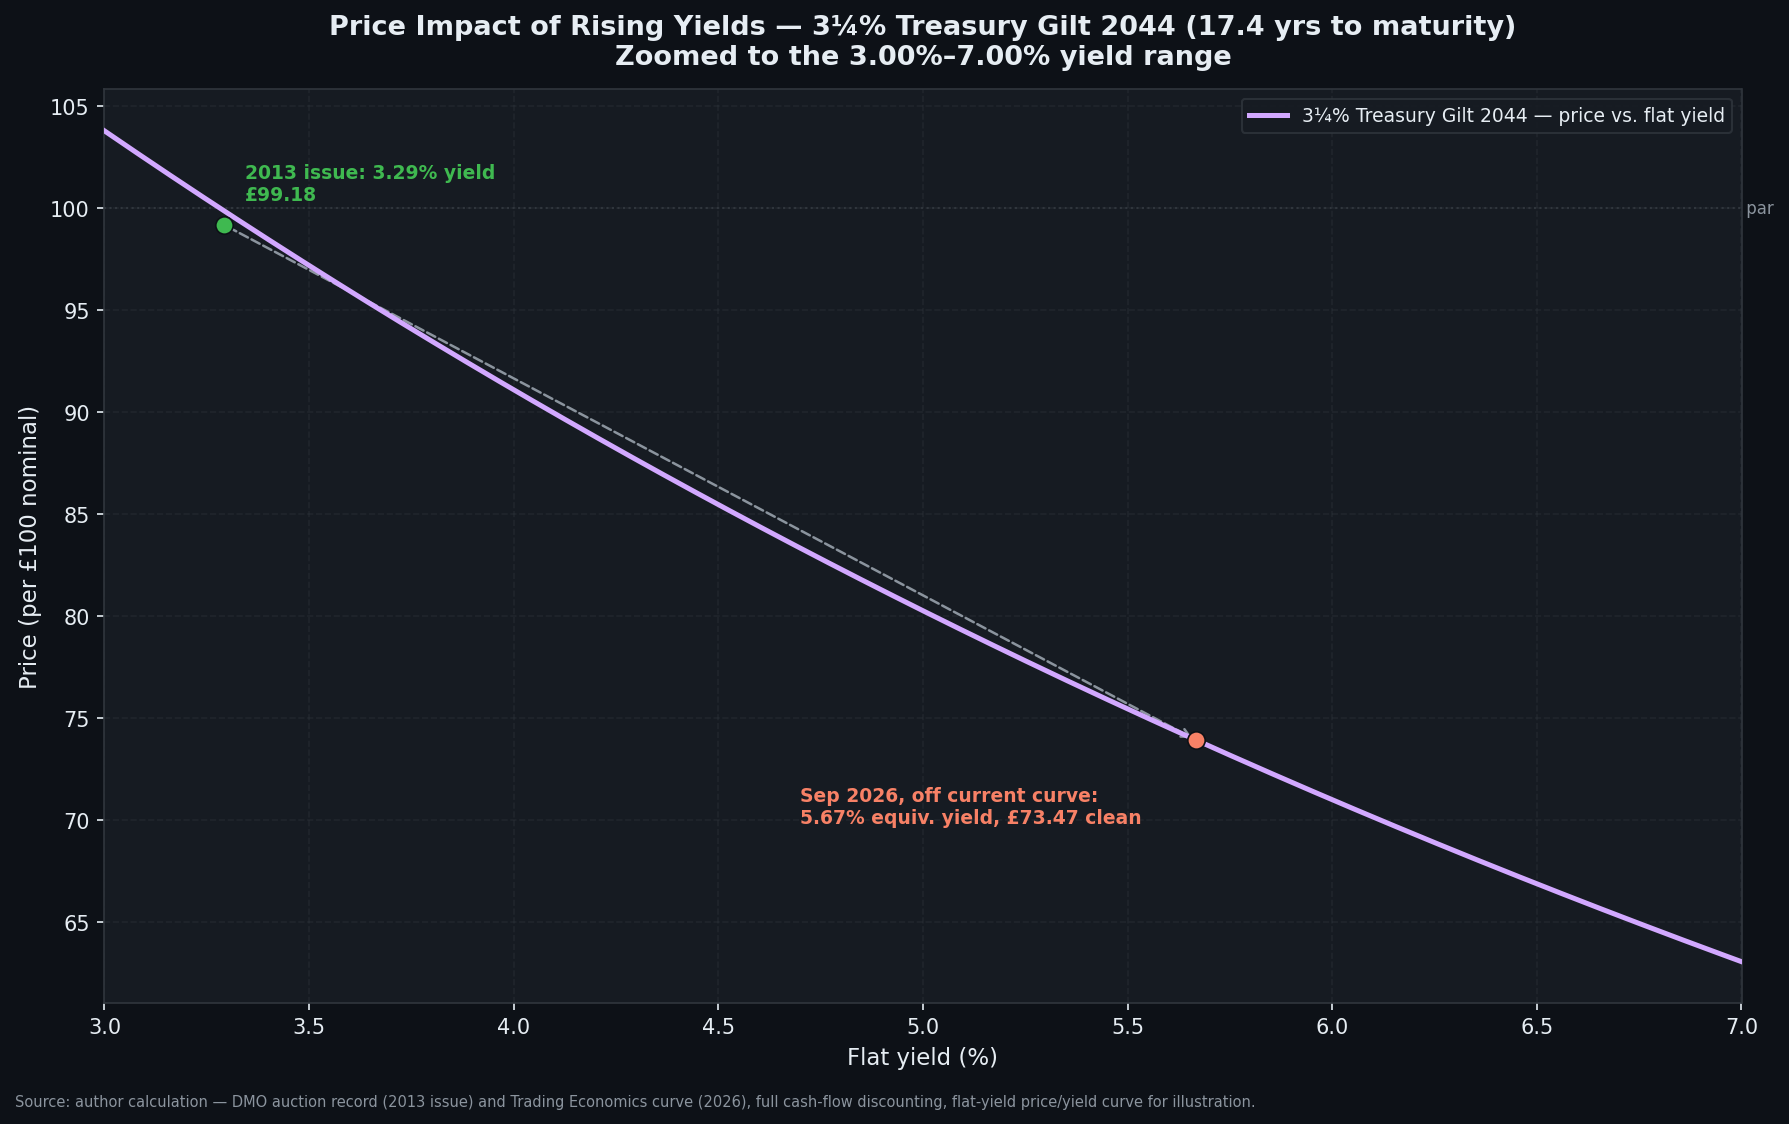
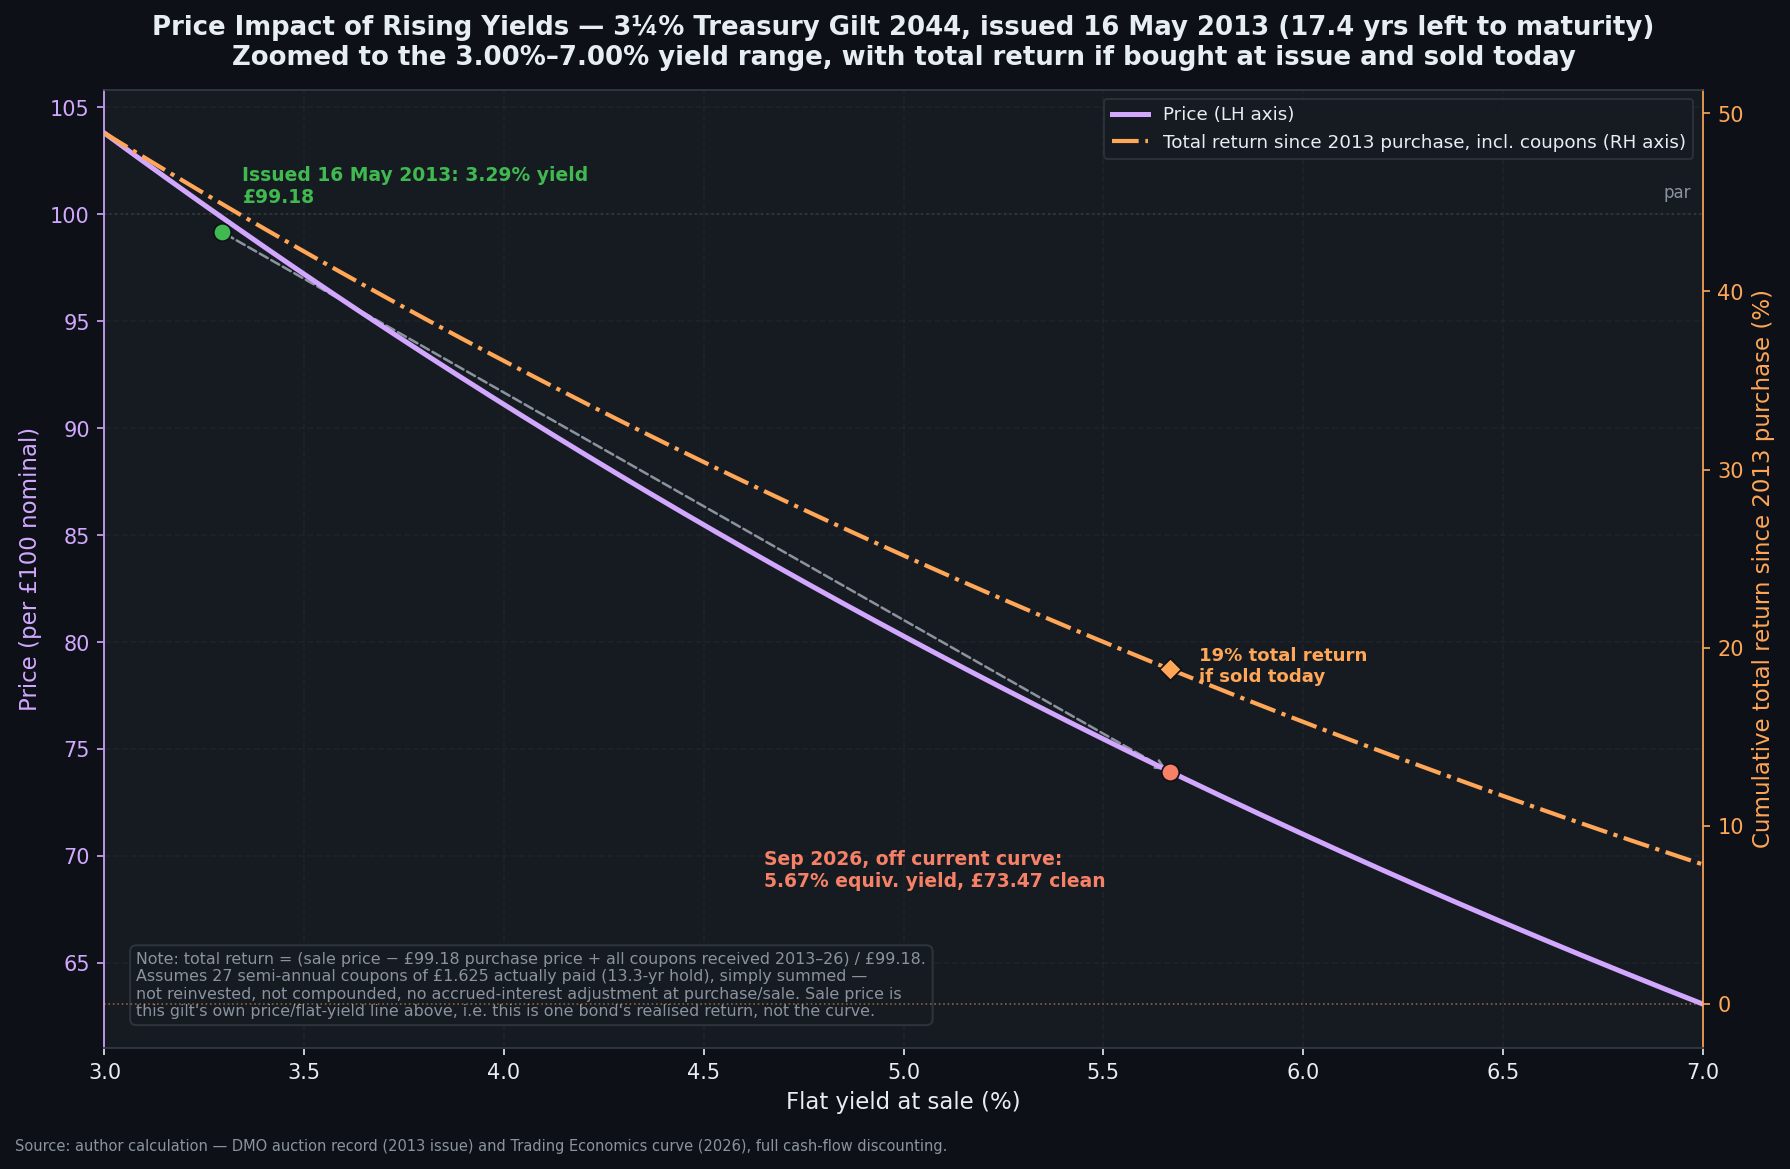
Add total-return (RH axis) and on-chart notes to gilt repricing charts; note issue date
- Chart 3 (price/yield zoom) now shows cumulative total return since the 2013 purchase, incl. all coupons received, on a right-hand axis, plus an issue-date-labelled annotation and a methodology note box
- Chart 1 (discount curve) gets on-chart methodology notes (proxy zero-curve caveat, discount-factor formula)
- Post text updated with the total-return figures (~19% cumulative / ~1.3% p.a. nominal if sold today, vs ~49% at 3.00% and ~8% at 7.00%) and an added caveat on the total-return simplifications

Claude-Session: https://claude.ai/code/session_01YTULTuWuszhoQVZSaLSyvE

diff --git a/static/data/economics/gilt_curve_2044_reprice.py b/static/data/economics/gilt_curve_2044_reprice.py
@@ -183,3 +183,139 @@ def make_price_zoom():
     print("saved price zoom")
 
 make_price_zoom()
+
+# ── Total return from a 2013 hold-to-today-then-sell, across the same yield range ──
+issue_date = date(2013, 5, 16)
+
+past_coupons = []
+d = date(2013, 7, 22)
+while d <= valuation:
+    past_coupons.append(d)
+    m = d.month + 6
+    yrr = d.year + (m-1)//12
+    m = (m-1) % 12 + 1
+    d = date(yrr, m, 22)
+
+total_coupons_received = coupon * len(past_coupons)
+holding_years = (valuation - issue_date).days / 365.0
+print(f"past coupons: {len(past_coupons)}, total coupon cash: {total_coupons_received:.3f}, holding years: {holding_years:.2f}")
+
+def total_return_pct(sale_price_dirty):
+    return (sale_price_dirty - issue_price + total_coupons_received) / issue_price * 100
+
+def make_price_zoom_v2():
+    ys = np.linspace(0.03, 0.07, 200)
+    prices = np.array([price_at_flat_yield(yy) for yy in ys])
+    tr = total_return_pct(prices)
+
+    fig, ax = plt.subplots(figsize=(12, 7.8))
+    ax2 = ax.twinx()
+
+    l1, = ax.plot(ys*100, prices, color=ACCENT4, linewidth=2.4, zorder=5,
+            label='Price (LH axis)')
+    l2, = ax2.plot(ys*100, tr, color=ACCENT5, linewidth=2.0, linestyle='-.', zorder=4,
+             label='Total return since 2013 purchase, incl. coupons (RH axis)')
+
+    ax.axhline(100, color=GRID_COL, linewidth=1, linestyle=':')
+    ax.text(6.97, 100.6, 'par', color=MUTED, fontsize=8, va='bottom', ha='right')
+
+    ax.scatter([issue_yield*100], [issue_price], color=ACCENT3, s=70, zorder=6, edgecolor=DARK_BG, linewidth=0.8)
+    ax.annotate(f'Issued 16 May 2013: {issue_yield*100:.2f}% yield\n£{issue_price:.2f}',
+                (issue_yield*100, issue_price), textcoords="offset points", xytext=(10, 14),
+                fontsize=9, color=ACCENT3, fontweight='bold')
+
+    ax.scatter([ytm_curve*100], [dirty_curve_price], color=ACCENT2, s=70, zorder=6, edgecolor=DARK_BG, linewidth=0.8)
+    ax.annotate(f'Sep 2026, off current curve:\n{ytm_curve*100:.2f}% equiv. yield, £{clean_curve_price:.2f} clean',
+                (ytm_curve*100, dirty_curve_price), textcoords="offset points", xytext=(-195, -55),
+                fontsize=9, color=ACCENT2, fontweight='bold')
+
+    ax.annotate('', xy=(ytm_curve*100, dirty_curve_price), xytext=(issue_yield*100, issue_price),
+                arrowprops=dict(arrowstyle='->', color=MUTED, lw=1.2, linestyle='--'))
+
+    cur_tr = total_return_pct(dirty_curve_price)
+    ax2.scatter([ytm_curve*100], [cur_tr], color=ACCENT5, s=55, zorder=6, edgecolor=DARK_BG, linewidth=0.8, marker='D')
+    ax2.annotate(f'{cur_tr:.0f}% total return\nif sold today', (ytm_curve*100, cur_tr),
+                 textcoords="offset points", xytext=(14, -6), fontsize=8.7, color=ACCENT5, fontweight='bold')
+
+    ax2.axhline(0, color=ACCENT5, linewidth=0.8, linestyle=':', alpha=0.5)
+
+    ax.set_xlim(3, 7)
+    ax.set_xlabel('Flat yield at sale (%)', fontsize=11)
+    ax.set_ylabel('Price (per £100 nominal)', fontsize=11, color=ACCENT4)
+    ax2.set_ylabel('Cumulative total return since 2013 purchase (%)', fontsize=11, color=ACCENT5)
+    ax.tick_params(axis='y', colors=ACCENT4)
+    ax2.tick_params(axis='y', colors=ACCENT5)
+    ax2.spines['right'].set_color(ACCENT5)
+    ax2.spines['left'].set_color(ACCENT4)
+    ax.set_title('Price Impact of Rising Yields — 3¼% Treasury Gilt 2044, issued 16 May 2013 (17.4 yrs left to maturity)\nZoomed to the 3.00%–7.00% yield range, with total return if bought at issue and sold today',
+                 fontsize=12.5, fontweight='bold', pad=12)
+
+    lines = [l1, l2]
+    ax.legend(lines, [ln.get_label() for ln in lines], loc='upper right', fontsize=8.8)
+    ax.grid(alpha=0.3)
+
+    note = ("Note: total return = (sale price − £99.18 purchase price + all coupons received 2013–26) / £99.18.\n"
+            f"Assumes {len(past_coupons)} semi-annual coupons of £1.625 actually paid ({holding_years:.1f}-yr hold), simply summed —\n"
+            "not reinvested, not compounded, no accrued-interest adjustment at purchase/sale. Sale price is\n"
+            "this gilt's own price/flat-yield line above, i.e. this is one bond's realised return, not the curve.")
+    ax.text(0.02, 0.03, note, transform=ax.transAxes, fontsize=7.6, color=MUTED,
+            va='bottom', ha='left', bbox=dict(boxstyle='round,pad=0.4', facecolor=DARK_AXES, edgecolor=GRID_COL, alpha=0.9))
+
+    add_source(fig, 'Source: author calculation — DMO auction record (2013 issue) and Trading Economics curve (2026), full cash-flow discounting.')
+    fig.tight_layout(rect=[0, 0.02, 1, 1])
+    fig.savefig(f'{OUT}/fiscal-outlook-2044-gilt-repricing.png', dpi=150, bbox_inches='tight', facecolor=DARK_BG)
+    plt.close(fig)
+    print("saved price zoom v2 with total return")
+    print(f"total return at current curve point: {cur_tr:.2f}%  annualized: {((1+cur_tr/100)**(1/holding_years)-1)*100:.2f}%")
+    print(f"total return at 3.00% sale: {total_return_pct(price_at_flat_yield(0.03)):.2f}%")
+    print(f"total return at 7.00% sale: {total_return_pct(price_at_flat_yield(0.07)):.2f}%")
+
+make_price_zoom_v2()
+
+# ── Add a note box to chart 1 as well ──
+def make_discount_curve_v2():
+    fine = np.linspace(1/12, 30, 400)
+    fig, (ax1, ax2) = plt.subplots(2, 1, figsize=(12, 9.3), sharex=True,
+                                    gridspec_kw={'height_ratios': [1.1, 1]})
+
+    ax1.plot(fine, y(fine)*100, color=ACCENT, linewidth=2.2, zorder=5)
+    ax1.scatter(mats, yld*100, color=ACCENT5, s=36, zorder=6, edgecolor=DARK_BG, linewidth=0.6,
+                label='Benchmark gilt yields')
+    for m, lbl, v in zip(mats, mat_labels, yld):
+        if lbl in ('1Y','5Y','10Y','30Y'):
+            ax1.annotate(f'{lbl}\n{v*100:.2f}%', (m, v*100), textcoords="offset points",
+                         xytext=(0, 10), ha='center', fontsize=8.5, color=TEXT_COL)
+    ax1.set_ylabel('Par yield (%)', fontsize=11)
+    ax1.set_title('UK Gilt Curve, 11 September 2026 — Par Yields and Implied Discount Factors',
+                   fontsize=13, fontweight='bold', pad=12)
+    ax1.legend(loc='lower right', fontsize=9)
+    ax1.grid(alpha=0.4)
+
+    note1 = ("Note: par yields interpolated (monotone PCHIP) between the 11 benchmark points\n"
+             "marked; used here as a proxy zero/discount curve (semi-annual compounding),\n"
+             "not a bootstrapped zero curve — a simplification, see post text.")
+    ax1.text(0.015, 0.97, note1, transform=ax1.transAxes, fontsize=7.6, color=MUTED,
+             va='top', ha='left', bbox=dict(boxstyle='round,pad=0.4', facecolor=DARK_AXES, edgecolor=GRID_COL, alpha=0.9))
+
+    ax2.plot(fine, df(fine), color=ACCENT3, linewidth=2.2)
+    ax2.fill_between(fine, df(fine), 0, color=ACCENT3, alpha=0.12)
+    for m, lbl in zip(mats, mat_labels):
+        if lbl in ('1Y','5Y','10Y','20Y','30Y'):
+            ax2.annotate(f'{df(m):.3f}', (m, df(m)), textcoords="offset points",
+                         xytext=(0, 8), ha='center', fontsize=8.5, color=TEXT_COL)
+    ax2.set_ylabel('Discount factor', fontsize=11)
+    ax2.set_xlabel('Maturity (years)', fontsize=11)
+    ax2.set_ylim(0, 1.02)
+    ax2.grid(alpha=0.4)
+
+    note2 = "Discount factor = price today of £1 received at that maturity = (1 + y/2)^(−2t)."
+    ax2.text(0.015, 0.06, note2, transform=ax2.transAxes, fontsize=7.6, color=MUTED,
+             va='bottom', ha='left', bbox=dict(boxstyle='round,pad=0.4', facecolor=DARK_AXES, edgecolor=GRID_COL, alpha=0.9))
+
+    add_source(fig, SOURCE_CURVE + ' — curve fitted by monotone (PCHIP) interpolation of benchmark par yields; treated as a proxy zero curve, a simplification flagged in the text.')
+    fig.tight_layout(rect=[0, 0.02, 1, 1])
+    fig.savefig(f'{OUT}/fiscal-outlook-discount-curve.png', dpi=150, bbox_inches='tight', facecolor=DARK_BG)
+    plt.close(fig)
+    print("saved discount curve v2 with notes")
+
+make_discount_curve_v2()

diff --git a/content/blog/economics/not-a-buffer-thats-a-wafer.md b/content/blog/economics/not-a-buffer-thats-a-wafer.md
@@ -55,13 +55,15 @@ A gilt sold at essentially par in 2013 is worth about £73.47 clean today — a 
 
 ## Zooming in: duration in one picture
 
-The chart below takes that same 3¼% 2044 gilt and zooms the yield axis to the 3.00%–7.00% range specifically, plotting price against a flat (parallel) yield shock rather than the full curve, so the duration effect is isolated and visible as one clean line.
+The chart below takes that same 3¼% Treasury Gilt 2044 (issued 16 May 2013) and zooms the yield axis to the 3.00%–7.00% range specifically, plotting price against a flat (parallel) yield shock rather than the full curve, so the duration effect is isolated and visible as one clean line. A second line, on the right-hand axis, adds the total return an actual buy-and-hold investor would have realised: buy at the 2013 auction, hold through to today, sell at whatever price the yield on the x-axis implies, and add back every coupon actually collected along the way.
 
-{{< figure src="/images/economics/fiscal-outlook-2044-gilt-repricing.png" caption="Price impact of rising yields on the 3¼% Treasury Gilt 2044, zoomed to the 3.00%–7.00% range" >}}
+{{< figure src="/images/economics/fiscal-outlook-2044-gilt-repricing.png" caption="Price impact of rising yields on the 3¼% Treasury Gilt 2044, zoomed to the 3.00%–7.00% range, with total return since the 2013 purchase on the right-hand axis" >}}
 
 The straight dashed line is a linear reference between the 2013 issue point and today's curve-implied point — the bond's actual price/yield line sits very slightly *above* that straight line across the whole range, which is convexity doing what convexity does (bond prices are a convex, not linear, function of yield — losses on the way up are a little smaller than a straight-line duration estimate implies, gains on the way down a little bigger). At this gilt's current yield, its Macaulay duration works out to about 12.5 years and modified duration to about 12.2. Rule of thumb: for every extra 100 basis points of yield, expect roughly a 12% price move in the opposite direction near current levels, tapering slightly as you move up the curve, which is exactly what the chart shows — steep, and very nearly straight, but not quite.
 
-Put in Lord Bridges' terms: the same market mechanism that produces "the highest 30-year borrowing cost in almost three decades" for new issuance is, cash-flow for cash-flow, the reason a 2013-vintage gilt is trading a quarter below where it was sold. It's one curve, doing both things at once.
+The total return line is the more human way of reading the same picture. Someone who bought this gilt at auction in May 2013 and sold it today, off the current curve, would have collected 27 semi-annual coupons of £1.625 along the way — £43.875 per £100 nominal, undiscounted — against a capital loss of about £25.71 (£99.18 down to £73.94 dirty). Net that out and the cumulative total return over 13.3 years is only about **19%**, which annualises to roughly **1.3% a year** — nominal, well before inflation, on a bond with a 3¼% coupon. That's the whole story of this post in one number: the coupon income was real, but the price decline nearly wiped it out, purely because yields backed up. Sell instead at the 3.00% end of the chart's range and total return jumps to about 49% (an investor who'd been lucky enough to sell before yields rose); sell at the 7.00% end and it falls to about 8%. Same bond, same coupons received, wildly different outcome depending entirely on where the curve happens to sit on the day you sell — which is duration risk stated as plainly as it gets.
+
+Put in Lord Bridges' terms: the same market mechanism that produces "the highest 30-year borrowing cost in almost three decades" for new issuance is, cash-flow for cash-flow, the reason a 2013-vintage gilt has spent thirteen years paying a coupon and still barely broken even in nominal total-return terms. It's one curve, doing both things at once.
 
 ## The caveats, because they matter
 
@@ -71,6 +73,7 @@ A few things worth being explicit about before anyone treats these numbers as mo
 - Day counts use a simple actual/365 approximation rather than the gilt market's actual actual/actual convention; again, a rounding-level effect at these maturities.
 - The zoomed chart uses a *flat* yield shock applied to one bond's own cash flows, which is standard practice for showing duration/convexity in isolation, but is not the same exercise as re-pricing the bond off a *shifted curve* (which is what the first chart's discounting actually does). The two are consistent with each other at the two marked points by construction, but they answer slightly different questions — flat-yield sensitivity versus curve-consistent valuation — and shouldn't be blended.
 - "Closest available gilt to a 3.00% coupon" is doing real work in this post. The 3¼% Treasury Gilt 2044 is a genuine, currently-traded instrument with a real DMO auction history, not a hypothetical — but it is a quarter-point off the brief's exact 3.00% figure, because that exact coupon doesn't currently exist in the gilt market. Better to say so than to quietly round.
+- The total return figures simply sum the 27 coupons actually paid since 2013 — no reinvestment, no compounding, and no accrued-interest adjustment at either the 2013 purchase or the assumed sale. A real total-return calculation (reinvesting each coupon at prevailing short rates) would land a little differently, most likely a bit lower given how low reinvestment rates were for much of 2013–2021 — but not enough to change the headline: a decade-plus of holding a 3¼% gilt through this rate cycle has produced a nominal return closer to a savings account than to the coupon rate printed on the certificate.
 
 ---
 
